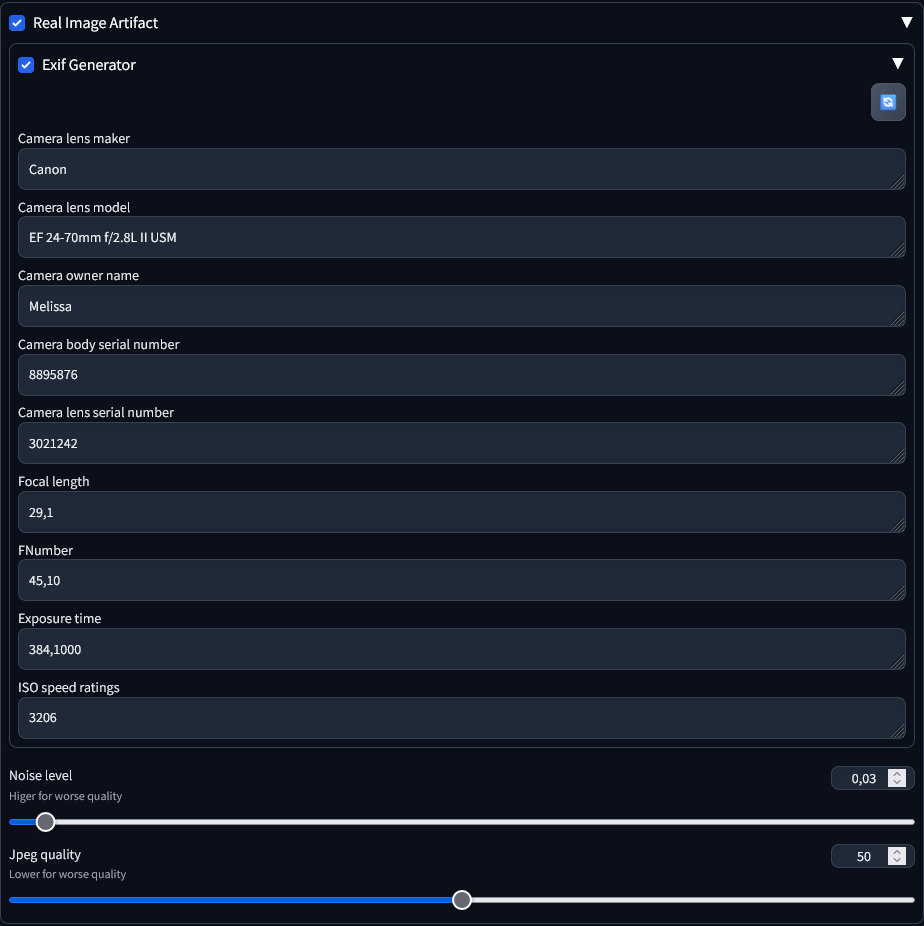
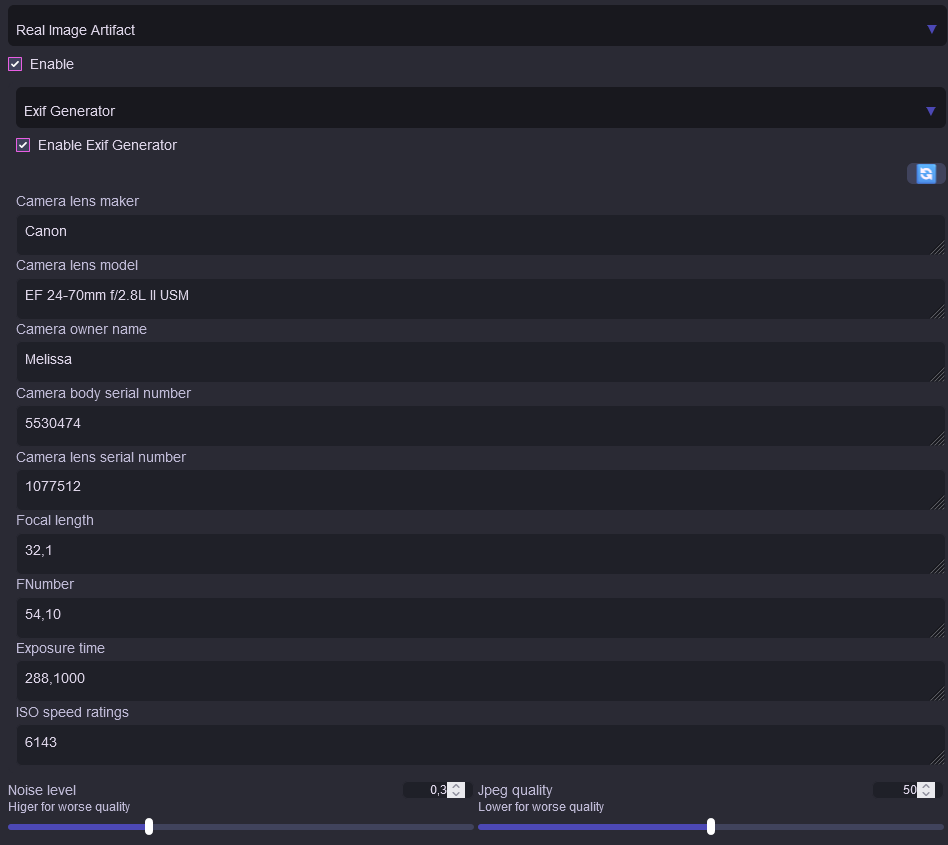
Added sdnext version

Changed region(s): [[0.0, 0.0, 1.0, 1.0]]

diff --git a/scripts/postprocessing_realimageartifact.py b/scripts/postprocessing_realimageartifact.py
@@ -9,26 +9,6 @@ import numpy as np
 from modules import scripts_postprocessing, shared, ui_components
 import modules
 
-
-def search_extras_folder(root_dir):
-    for root, dirs, files in os.walk(root_dir):
-        if 'output' in dirs or 'outputs' in dirs:
-            output_folder = os.path.join(
-                root, 'output') if 'output' in dirs else os.path.join(root, 'outputs')
-            for root, dirs, files in os.walk(output_folder):
-                for dir_name in dirs:
-                    if 'extra' in dir_name:
-                        extra_folder_path = os.path.join(
-                            output_folder, dir_name)
-                        logging.debug("Real Image Artifact==> Found extra images folder at: %s",
-                                      extra_folder_path)
-                        return extra_folder_path
-            logging.error(
-                "Real Image Artifact==> extras or extras-images folder is missing")
-        else:
-            logging.error("Real Image Artifact==> Output folder is missing")
-
-
 lens_make_model_list = [
     ("Canon", "EF 24-70mm f/2.8L II USM"),
     ("Nikon", "AF-S NIKKOR 50mm f/1.8G"),
@@ -159,7 +139,8 @@ def worst_image(img, noise_level, jpeg_artifact_level, enable_exif, metadata_set
 
         try:
             if enable_exif:
-                folder_path = search_extras_folder(modules.scripts.basedir())
+                folder_path = os.path.join(
+                    modules.scripts.basedir(), 'outputs', 'extras')
 
                 file_names = [f for f in os.listdir(
                     folder_path) if os.path.isfile(os.path.join(folder_path, f))]
@@ -192,34 +173,37 @@ class ScriptPostprocessingRealImageArtifact(scripts_postprocessing.ScriptPostpro
     order = 5000
 
     def ui(self):
-        with ui_components.InputAccordion(False, label="Real Image Artifact") as enable:
-            with ui_components.InputAccordion(False, label="Exif Generator") as enable_exif:
-                rad_metadata = ui_components.ToolButton(value='🔄')
-                LensMake = gr.Textbox(label='Camera lens maker',
-                                      value=def_metadata_settings["LensMake"])
-                LensModel = gr.Textbox(
-                    label='Camera lens model', value=def_metadata_settings["LensModel"])
-                CameraOwnerName = gr.Textbox(label='Camera owner name',
-                                             value=def_metadata_settings["CameraOwnerName"])
-                BodySerialNumber = gr.Textbox(label='Camera body serial number',
-                                              value=def_metadata_settings["BodySerialNumber"])
-                LensSerialNumber = gr.Textbox(label='Camera lens serial number',
-                                              value=def_metadata_settings["LensSerialNumber"])
-                FocalLength = gr.Textbox(label='Focal length',
-                                         value=def_metadata_settings["FocalLength"])
-                FNumber = gr.Textbox(label='FNumber',
-                                     value=def_metadata_settings["FNumber"])
-                ExposureTime = gr.Textbox(label='Exposure time',
-                                          value=def_metadata_settings["ExposureTime"])
-                ISOSpeedRatings = gr.Textbox(label='ISO speed ratings',
-                                             value=def_metadata_settings["ISOSpeedRatings"])
-            with gr.Group():
-                noise_level = gr.Slider(minimum=0, maximum=1, label='Noise level', step=0.01, info="Higer for worse quality",
-                                        value=0.03)
-                jpeg_artifact_level = gr.Slider(minimum=0, maximum=100, label='Jpeg quality', step=1, info="Lower for worse quality",
-                                                value=50)
+        enable = gr.Checkbox(
+            container=False, label="Enable")
+        with gr.Accordion(label="Exif Generator"):
+            enable_exif = gr.Checkbox(
+                container=False, label="Enable Exif Generator")
+            rad_metadata = ui_components.ToolButton(value='🔄')
+            LensMake = gr.Textbox(label='Camera lens maker',
+                                  value=def_metadata_settings["LensMake"])
+            LensModel = gr.Textbox(
+                label='Camera lens model', value=def_metadata_settings["LensModel"])
+            CameraOwnerName = gr.Textbox(label='Camera owner name',
+                                         value=def_metadata_settings["CameraOwnerName"])
+            BodySerialNumber = gr.Textbox(label='Camera body serial number',
+                                          value=def_metadata_settings["BodySerialNumber"])
+            LensSerialNumber = gr.Textbox(label='Camera lens serial number',
+                                          value=def_metadata_settings["LensSerialNumber"])
+            FocalLength = gr.Textbox(label='Focal length',
+                                     value=def_metadata_settings["FocalLength"])
+            FNumber = gr.Textbox(label='FNumber',
+                                 value=def_metadata_settings["FNumber"])
+            ExposureTime = gr.Textbox(label='Exposure time',
+                                      value=def_metadata_settings["ExposureTime"])
+            ISOSpeedRatings = gr.Textbox(label='ISO speed ratings',
+                                         value=def_metadata_settings["ISOSpeedRatings"])
+        with gr.Row():
+            noise_level = gr.Slider(minimum=0, maximum=1, label='Noise level', step=0.01, info="Higer for worse quality",
+                                    value=0.03)
+            jpeg_artifact_level = gr.Slider(minimum=0, maximum=100, label='Jpeg quality', step=1, info="Lower for worse quality",
+                                            value=50)
         rad_metadata.click(fn=randomize_metadata, outputs=[
-                           LensMake, LensModel,  CameraOwnerName, BodySerialNumber, LensSerialNumber, FocalLength, FNumber, ExposureTime, ISOSpeedRatings])
+            LensMake, LensModel,  CameraOwnerName, BodySerialNumber, LensSerialNumber, FocalLength, FNumber, ExposureTime, ISOSpeedRatings])
 
         return {
             "enable": enable,

diff --git a/README.md b/README.md
@@ -1,6 +1,6 @@
 ![Screenshot](examples/Screenshot.png)
 
-# sd-webui-real-image-artifacts
+# sdnext-real-image-artifacts
 
 A post processor to add noise, jpeg arifacts and opional exif to an image to make ai generated image feel more real (original code by https://www.reddit.com/user/I_like_lips)
 
